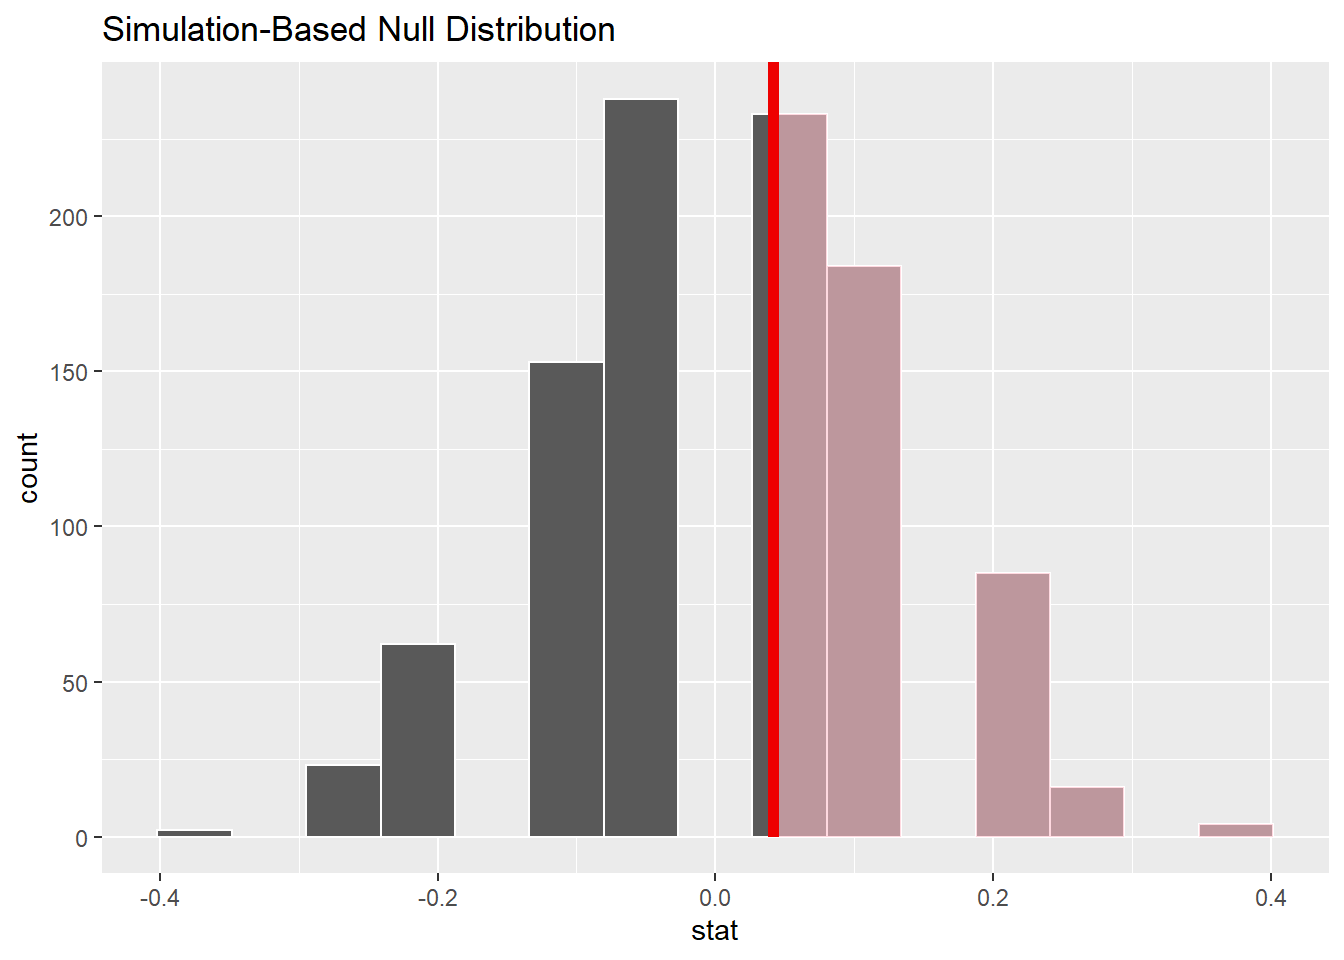
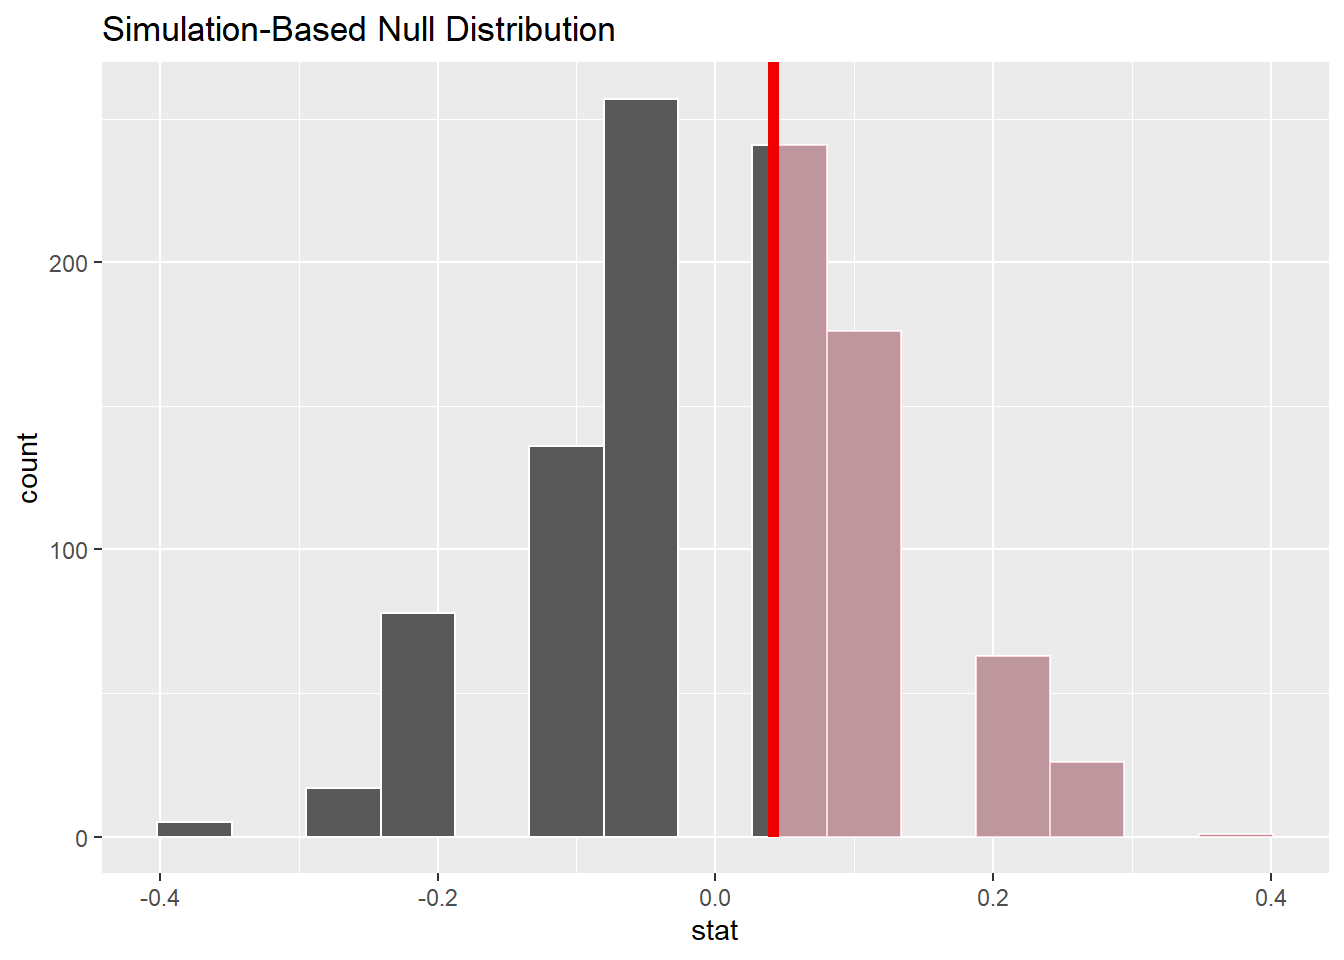
dd

diff --git a/content/post/R/2021-10-13-foundations-of-inference/index.en.html b/content/post/R/2021-10-13-foundations-of-inference/index.en.html
@@ -144,13 +144,13 @@ homeown_perm</code></pre>
 ## # Groups:   replicate [10]
 ##    HomeOwn Gender replicate
 ##    &lt;fct&gt;   &lt;fct&gt;      &lt;int&gt;
-##  1 Own     male           1
-##  2 Rent    male           1
+##  1 Rent    male           1
+##  2 Own     male           1
 ##  3 Own     male           1
-##  4 Rent    male           1
+##  4 Own     male           1
 ##  5 Own     female         1
-##  6 Rent    male           1
-##  7 Own     male           1
+##  6 Own     male           1
+##  7 Rent    male           1
 ##  8 Rent    female         1
 ##  9 Rent    female         1
 ## 10 Own     female         1
@@ -176,18 +176,18 @@ homeown_perm &lt;- homes %&gt;%
 # Print results to console
 homeown_perm</code></pre>
 <pre><code>## # A tibble: 100 x 2
-##    replicate        stat
-##        &lt;int&gt;       &lt;dbl&gt;
-##  1         1  0.0107    
-##  2         2 -0.00124   
-##  3         3 -0.00495   
-##  4         4  0.00494   
-##  5         5 -0.00000297
-##  6         6 -0.00289   
-##  7         7  0.0177    
-##  8         8  0.00329   
-##  9         9  0.00865   
-## 10        10 -0.00618   
+##    replicate     stat
+##        &lt;int&gt;    &lt;dbl&gt;
+##  1         1 -0.00289
+##  2         2  0.00988
+##  3         3  0.00329
+##  4         4 -0.00165
+##  5         5  0.0103 
+##  6         6  0.00247
+##  7         7  0.00700
+##  8         8 -0.00824
+##  9         9  0.00618
+## 10        10  0.00823
 ## # ... with 90 more rows</code></pre>
 <pre class="r"><code># Perform 100 permutations
 homeown_perm &lt;- homes %&gt;%
@@ -367,13 +367,13 @@ disc_perm %&gt;%
   # Calculate difference in proportion, male then female
   calculate(stat= &quot;diff in props&quot;, order= c(&quot;male&quot;, &quot;female&quot;))</code></pre>
 <pre><code>## # A tibble: 5 x 2
-##   replicate    stat
-##       &lt;int&gt;   &lt;dbl&gt;
-## 1         1 -0.0417
-## 2         2  0.0417
-## 3         3  0.292 
-## 4         4  0.0417
-## 5         5  0.0417</code></pre>
+##   replicate   stat
+##       &lt;int&gt;  &lt;dbl&gt;
+## 1         1 -0.125
+## 2         2 -0.208
+## 3         3 -0.375
+## 4         4 -0.125
+## 5         5 -0.125</code></pre>
 </div>
 <div id="randomizing-gender-discrimination" class="section level2">
 <h2>2-5 Randomizing gender discrimination</h2>
@@ -438,7 +438,7 @@ ggplot(disc_perm, aes(x = stat)) +
 <pre><code>## # A tibble: 1 x 3
 ##    q.90  q.95  q.99
 ##   &lt;dbl&gt; &lt;dbl&gt; &lt;dbl&gt;
-## 1 0.208 0.208 0.292</code></pre>
+## 1 0.125 0.208 0.292</code></pre>
 </div>
 <div id="two-sided-critical-region" class="section level2">
 <h2>2-9 Two-sided critical region</h2>
@@ -459,7 +459,25 @@ disc_perm %&gt;%
 <pre><code>## # A tibble: 1 x 3
 ##     q.01   q.05   q.10
 ##    &lt;dbl&gt;  &lt;dbl&gt;  &lt;dbl&gt;
-## 1 -0.292 -0.208 -0.208</code></pre>
+## 1 -0.292 -0.208 -0.133</code></pre>
+<pre class="r"><code>disc_perm</code></pre>
+<pre><code>## # A tibble: 1,000 x 2
+##    replicate    stat
+##        &lt;int&gt;   &lt;dbl&gt;
+##  1         1 -0.0417
+##  2         2 -0.125 
+##  3         3  0.208 
+##  4         4 -0.0417
+##  5         5  0.292 
+##  6         6 -0.208 
+##  7         7  0.0417
+##  8         8  0.292 
+##  9         9  0.125 
+## 10        10  0.0417
+## # ... with 990 more rows</code></pre>
+<pre class="r"><code># For an unknown reason, result is not same as DataCamp result. Therefore, I added below line:
+#disc_perm &lt;- read.csv(&quot;disc_perm.csv&quot;)
+#disc_perm</code></pre>
 </div>
 <div id="sample-size-in-randomization-distribution" class="section level2">
 <h2>2-12 Sample size in randomization distribution</h2>
@@ -519,7 +537,7 @@ calc_upper_quantiles(disc_perm)</code></pre>
 <pre><code>## # A tibble: 1 x 3
 ##    q.90  q.95  q.99
 ##   &lt;dbl&gt; &lt;dbl&gt; &lt;dbl&gt;
-## 1 0.208 0.208 0.292</code></pre>
+## 1 0.125 0.208 0.292</code></pre>
 <pre class="r"><code># Calculate the quantiles associated with the small dataset
 calc_upper_quantiles(disc_perm_small)</code></pre>
 <pre><code>##   q.90 q.95 q.99
@@ -546,7 +564,7 @@ disc_perm %&gt;%
 <pre><code>## # A tibble: 1 x 1
 ##   p_value
 ##     &lt;dbl&gt;
-## 1   0.516</code></pre>
+## 1   0.507</code></pre>
 <pre class="r"><code># Visualize and calculate the p-value for the small dataset
 #disc_perm_small %&gt;%
 #  visualize(obs_stat = diff_orig_small, direction = &quot;greater&quot;)
@@ -590,6 +608,31 @@ table(disc)</code></pre>
 ## promote        female male
 ##   not_promoted      7    6
 ##   promoted         17   18</code></pre>
+<pre class="r"><code>diff_orig_new &lt;- 0.04166667
+# Recall the distribution of the original permuted differences
+ggplot(disc_perm, aes(x = stat)) + 
+  geom_histogram() +
+  geom_vline(aes(xintercept = diff_orig), color = &quot;red&quot;)</code></pre>
+<pre><code>## `stat_bin()` using `bins = 30`. Pick better value with `binwidth`.</code></pre>
+<p><img src="{{< blogdown/postref >}}index.en_files/figure-html/unnamed-chunk-24-1.png" width="672" /></p>
+<pre class="r"><code># Plot the distribution of the new permuted differences
+ggplot(disc_perm_new, aes(x = stat))+ 
+  geom_histogram() +
+  geom_vline(aes(xintercept = diff_orig_new), color = &quot;red&quot;)</code></pre>
+<pre><code>## `stat_bin()` using `bins = 30`. Pick better value with `binwidth`.</code></pre>
+<p><img src="{{< blogdown/postref >}}index.en_files/figure-html/unnamed-chunk-24-2.png" width="672" /></p>
+<pre class="r"><code># Recall the p-value from the original data
+disc_perm %&gt;%
+  summarize(p_value = mean(diff_orig &lt;= stat))</code></pre>
+<pre><code>## # A tibble: 1 x 1
+##   p_value
+##     &lt;dbl&gt;
+## 1   0.507</code></pre>
+<pre class="r"><code># Find the p-value from the new data
+disc_perm_new %&gt;%
+  summarize(p_value = mean(diff_orig_new &lt;= stat))</code></pre>
+<pre><code>##   p_value
+## 1   0.227</code></pre>
 </div>
 <div id="calculating-two-sided-p-values" class="section level2">
 <h2>2- 17 Calculating two-sided p-values</h2>
@@ -597,6 +640,13 @@ table(disc)</code></pre>
 <p>When there is no directionality to the alternative hypothesis, the hypothesis and p-value are considered to be two-sided. In a two-sided setting, the p-value is double the one-sided p-value.</p>
 <p>In this exercise, you’ll calculate a two-sided p-value given the original randomization distribution and dataset.</p>
 <p>The observed difference is stored in diff_orig and the difference in each permutation is the stat column of disc_perm.</p>
+<pre class="r"><code># Calculate the two-sided p-value
+disc_perm %&gt;%
+  summarize(p_value = 2*mean(diff_orig &lt;= stat))</code></pre>
+<pre><code>## # A tibble: 1 x 1
+##   p_value
+##     &lt;dbl&gt;
+## 1    1.01</code></pre>
 </div>
 <div id="hypothesis-testing-errors-opportunity-cost" class="section level2">
 <h2>3- Hypothesis testing errors: opportunity cost</h2>
@@ -604,6 +654,21 @@ table(disc)</code></pre>
 </div>
 <div id="section" class="section level2">
 <h2>3-2-</h2>
+<pre class="r"><code>disc_perm</code></pre>
+<pre><code>## # A tibble: 1,000 x 2
+##    replicate    stat
+##        &lt;int&gt;   &lt;dbl&gt;
+##  1         1 -0.0417
+##  2         2 -0.125 
+##  3         3  0.208 
+##  4         4 -0.0417
+##  5         5  0.292 
+##  6         6 -0.208 
+##  7         7  0.0417
+##  8         8  0.292 
+##  9         9  0.125 
+## 10        10  0.0417
+## # ... with 990 more rows</code></pre>
 </div>
 <div id="confidence-intervals" class="section level2">
 <h2>4- Confidence intervals</h2>
